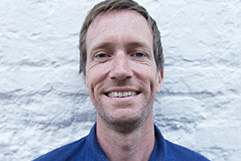
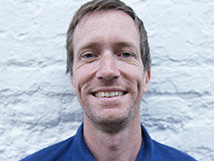
Thumbnail
Corrected thumbnail size

diff --git a/index.html b/index.html
@@ -330,7 +330,7 @@
 
 	      <div class="row">
 		      <div class="showcase col-sm-3">
-			      <img src="assets/images/happystartupschool214161.png" />
+			      <img src="assets/images/laurencemccahill214161.jpg" />
 			      <a href="happystartupschool.html">
 				      <div class="caption">
 					      <h3>Laurence McCahill</h3>
